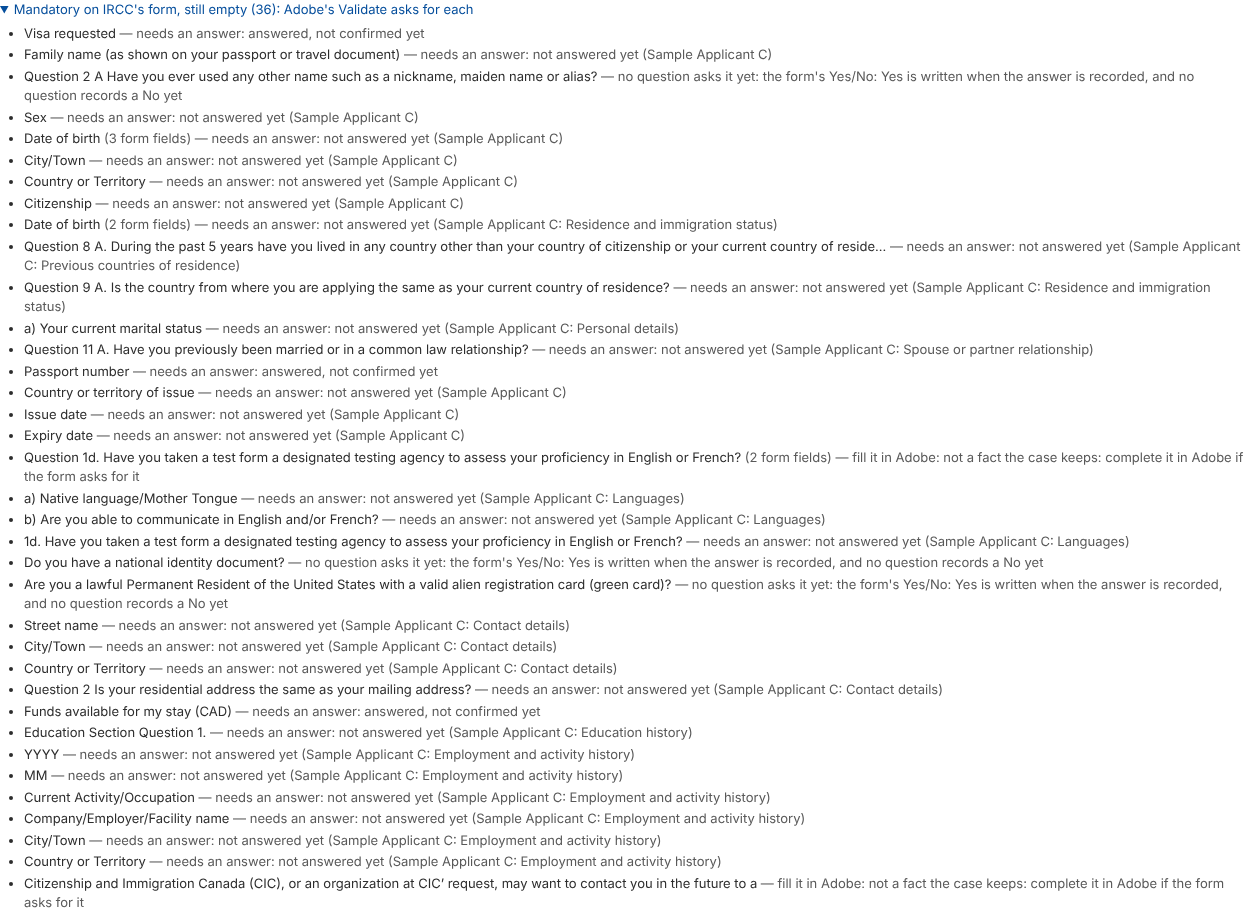
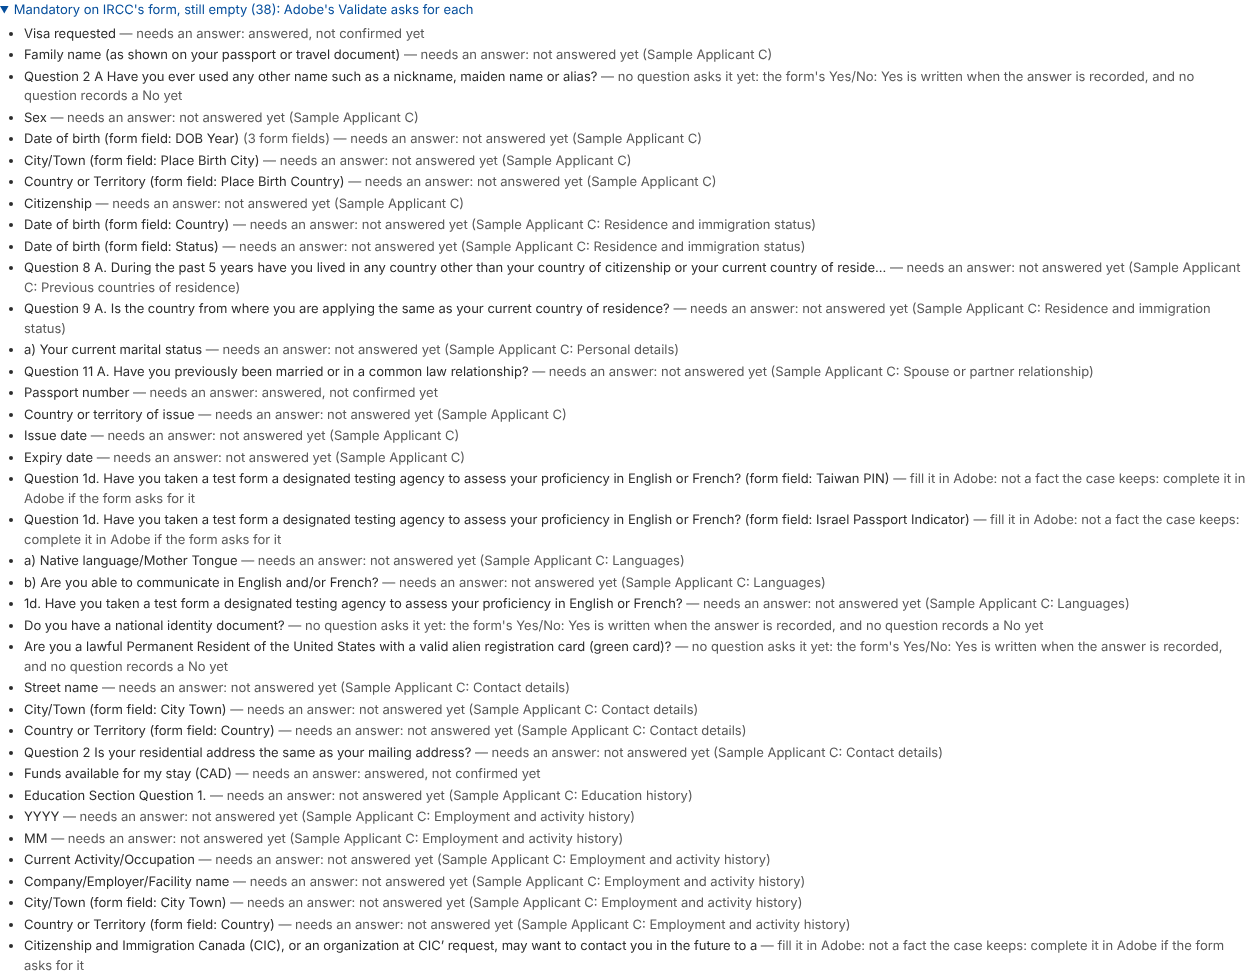
runtime: QA-165 part 2 — Devin on #592: inventory path guard, unaskable fields, Online copies, one line per field
Security: a release's inventory_file is read only as a .json inside the solution folder (solutionFile, used by
fieldsOpen and writeForm). A mapped field no answer can fill (no placement, not in the library, person not on the
case) is "no question asks it yet". An Online form's PDF copy lists its open fields too. The forms card merges only
the parts of one question (date parts under one parent); lines sharing words are named by their field.
check_qa165_mandatory 21/21 (mutants: unaskable rule off 18/21; no containment 20/21); r1c 130/130; r1d 96/96;
r1a 98/98; c72 41/41.

Claude-Session: https://claude.ai/code/session_01MXNda6sUoSwsFJcAnZxrcd

Changed region(s): [[0.0, 0.0, 1.0, 1.0], [0.7319, 0.2453, 1.0, 0.276]]

diff --git a/ai-workers/problem-1-pathway-setup-and-form-filling/prototype/studio/tests/check_qa165_mandatory.ts b/ai-workers/problem-1-pathway-setup-and-form-filling/prototype/studio/tests/check_qa165_mandatory.ts
@@ -8,6 +8,7 @@ import { readFileSync } from "node:fs";
 import { join } from "node:path";
 import fc from "fast-check";
 import { mandatoryOpen } from "../engine/runtime/mandatory.ts";
+import { solutionFile } from "../api/src/fill.ts";
 import type { BoxResult, Inventory } from "../engine/form-values.ts";
 import { recorder } from "./runtime/api.ts";
 
@@ -30,6 +31,10 @@ const o3 = mandatoryOpen(inv, [], [], { ...all, [c]: "" });
 ok("pass: a field nothing maps → \"no question asks it yet\"", o3.length === 1 && o3[0].reason === "no question asks it yet", o3);
 const o4 = mandatoryOpen(inv, [{ data_path: d, fact: "person.x", outcome: "mapped" }], [box(d, { coverage: "unresolved", detail: "collected from a document, but no supported document type supplies it" })], { ...all, [d]: "" });
 ok("fail (r1c screenshot): a mapped fact read from a document is still answerable → \"needs an answer\", never \"no question asks it yet\"", o4.length === 1 && o4[0].reason === "needs an answer" && o4[0].why === "not answered yet (Client A)", o4);
+for (const detail of ["no question placement: nobody is asked for this value yet", "the form field reads a field that is not in the library", "that person is not part of this combination; the form field stays blank"]) {
+  const o = mandatoryOpen(inv, [{ data_path: d, fact: "person.x", outcome: "mapped" }], [box(d, { coverage: "unresolved", detail })], { ...all, [d]: "" });
+  ok(`fail (Devin on #592): a mapped field no answer can fill ("${detail.split(":")[0].split(";")[0]}") → "no question asks it yet", in render's words`, o[0]?.reason === "no question asks it yet" && o[0]?.why === detail, o);
+}
 const o5 = mandatoryOpen(inv, [{ data_path: a, fact: "person.x", outcome: "mapped" }], [box(a, { result: "by hand", why: "\"Z\" has no code" })], one);
 ok("pass: a value with no code in the form → \"filled by hand\", with why", o5.length === 1 && o5[0].reason === "filled by hand" && /no code/.test(o5[0].why), o5);
 const o6 = mandatoryOpen(inv, [{ data_path: a, fact: "person.x", outcome: "mapped" }], [box(a, { coverage: "answered on screen" })], one);
@@ -45,6 +50,10 @@ ok("fail: a question number alone (\"Question 1d.\") is not taken as the sentenc
 const o10 = mandatoryOpen(inv, [{ data_path: a, evidence_quote: "* Date of birth" }], [], one);
 ok("pass: the form's own \"*\" mark is left off the words", o10[0]?.label === "Date of birth", o10[0]?.label);
 ok("fail: a field path never shows as the words", mandatoryOpen(inv, [], [], {}).every((x) => !/form1\[|\[0\]\./.test(x.label)));
+
+// Devin on #592 (security): a release's inventory_file is data; only a .json file inside the solution folder is read.
+ok("fail: an inventory_file that climbs out of the solution folder, or is not .json, is never read", solutionFile("../../../../etc/passwd.json") === null && solutionFile("/etc/hosts.json") === null && solutionFile("prototype/p1/inventory/imm5257e.inventory.pdf") === null && solutionFile(null) === null);
+ok("pass: the release's own field list resolves inside the solution folder", !!solutionFile("prototype/p1/inventory/imm5257e.inventory.json")?.endsWith("/prototype/p1/inventory/imm5257e.inventory.json"));
 
 // Signatures and the oath are person steps (F2/F6), never listed here; buttons neither.
 const sigInv: Inventory = { fields: [{ data_path: "form1[0].P[0].Signature[0].Sign[0]", caption: "Signature of applicant", required: true, ui: "signature" }, { data_path: "form1[0].P[0].Add[0]", caption: "Add", required: true, ui: "button" }, { data_path: "form1[0].P[0].Name[0]", caption: "Family name", required: true, ui: "textEdit" }] };

diff --git a/ai-workers/problem-1-pathway-setup-and-form-filling/prototype/studio/api/src/fill-case.ts b/ai-workers/problem-1-pathway-setup-and-form-filling/prototype/studio/api/src/fill-case.ts
@@ -21,10 +21,10 @@ import { changedFacts, changedGroups, copyOnlyForms, formCoverage, groupFacts, i
 import { answerSheetOnly, CHANNEL_WORDS, isBarcodeForm, NOT_FOR_FILING, type Channel } from "../../contracts/forms.ts";
 import { lineOf } from "../../engine/channels.ts";
 import type { BoxRow } from "../../engine/render.ts";
-import { actorOf, Audit, CaseRead, Db, fail, PROTOTYPE, PY, ROOT, SOLUTION, VAR, VAR_ROOT, type Actor } from "./core.ts";
+import { actorOf, Audit, CaseRead, Db, fail, PROTOTYPE, PY, ROOT, VAR, VAR_ROOT, type Actor } from "./core.ts";
 import { formValues, type Inventory } from "../../engine/form-values.ts";
 import { mandatoryOpen, type OpenField } from "../../engine/runtime/mandatory.ts";
-import { writeForm } from "./fill.ts";
+import { solutionFile, writeForm } from "./fill.ts";
 import { trialFor, type EditionMap } from "./fill-trials.ts";
 import { Runtime, type Reached } from "./runtime.ts";
 
@@ -80,8 +80,10 @@ const NOT_FORM_CHECKED = "Read back before the form's own Validate result was ch
 /** QA-165 part 2: a form's field list, read once per file (the release's field map names it). */
 const inventories = new Map<string, Inventory>();
 const inventoryOf = (file: string): Inventory | null => {
-  if (!inventories.has(file)) { try { inventories.set(file, JSON.parse(readFileSync(join(SOLUTION, file), "utf8")) as Inventory); } catch { return null; } }
-  return inventories.get(file)!;
+  const abs = solutionFile(file); // never outside the solution folder (Devin on #592)
+  if (!abs) return null;
+  if (!inventories.has(abs)) { try { inventories.set(abs, JSON.parse(readFileSync(abs, "utf8")) as Inventory); } catch { return null; } }
+  return inventories.get(abs)!;
 };
 /** QA-165 part 2 (P-237, P-238): the mandatory form fields a copy made now would leave empty, with why (engine/runtime/
  *  mandatory.ts), from the same value step a copy runs. Empty when the form has no PDF map or field list. */
@@ -140,7 +142,7 @@ export class CaseForms implements OnModuleInit {
         const channel = channelIn(s, form);
         forms.push({ form, title: titles.get(form) ?? form, subject_id: p.subjectId, person: p.label, applies, trial_passed: trialOf(s, form).passed, trial_why: trialOf(s, form).why, channel, for_filing: channel !== "ONLINE", needs_validate: needsValidate(s, form),
           draft: { written_now: cov?.facts.length ?? 0, mapped: cov?.mapped ?? 0, unconfirmed: cov?.boxes.filter((b) => b.coverage === "answered on screen").length ?? 0 },
-          readiness: readiness(view, form, p.subjectId), fields_open: cov && channel !== "ONLINE" ? fieldsOpen(s, form, markNothingRecorded(cov.boxes, view)) : [], copies: mine.map((x) => this.copyOf(x, cov?.facts ?? [], labels, groupFacts(view, form, p.subjectId), channel === "ONLINE")) });
+          readiness: readiness(view, form, p.subjectId), fields_open: cov ? fieldsOpen(s, form, markNothingRecorded(cov.boxes, view)) : [], copies: mine.map((x) => this.copyOf(x, cov?.facts ?? [], labels, groupFacts(view, form, p.subjectId), channel === "ONLINE")) });
       }
     }
     // QA-40: a form filed Online is listed too (no PDF copy is made), with the people it applies to (P-113: the case

diff --git a/ai-workers/problem-1-pathway-setup-and-form-filling/prototype/studio/api/src/fill.ts b/ai-workers/problem-1-pathway-setup-and-form-filling/prototype/studio/api/src/fill.ts
@@ -6,7 +6,7 @@ import { HttpException, HttpStatus, Inject, Injectable } from "@nestjs/common";
 import { execFile } from "node:child_process";
 import { createHash } from "node:crypto";
 import { mkdirSync, readFileSync, writeFileSync } from "node:fs";
-import { join } from "node:path";
+import { join, resolve, sep } from "node:path";
 import { promisify } from "node:util";
 import { formValues } from "../../engine/form-values.ts";
 import { personSteps } from "../../engine/form-steps.ts";
@@ -22,6 +22,14 @@ const sha = (b: Buffer | string) => createHash("sha256").update(b).digest("hex")
  *  the form field's own format or code, signatures and the oath never written, the official copy written append-only by
  *  p5/fill.py and read back. Shared by the configuration preview (sample facts) and a case (its confirmed answers,
  *  runtime lane S-11). Writes <dir>/<base>.pdf, .request.json and .report.json. */
+/** A form's field list named by a release (`inventory_file`), read only from inside the solution folder and only as a
+ *  .json file (Devin on #592: a release is data, so a "../" path must never reach another file). Null when it is not. */
+export function solutionFile(rel: string | null | undefined): string | null {
+  if (!rel || !/\.json$/i.test(rel)) return null;
+  const abs = resolve(SOLUTION, rel), root = resolve(SOLUTION);
+  return abs.startsWith(`${root}${sep}`) ? abs : null;
+}
+
 export async function writeForm(snapshot: Snapshot, cov: { boxes: BoxRow[] }, form: string, dir: string, base: string, opts: { notForFiling?: boolean } = {}) {
   // F1: the PDF edition. A line filed Online is never filled as a PDF, even when the library also has its PDF (review 18);
   // online filling needs the browser extension (later wave, W1-02, P-102).
@@ -31,7 +39,9 @@ export async function writeForm(snapshot: Snapshot, cov: { boxes: BoxRow[] }, fo
   if (line?.channel === "ONLINE" && !opts.notForFiling) fail(`${form} is filed Online here: it needs the browser extension (later wave), so the product does not fill it. File it as a PDF upload to fill its PDF.`, HttpStatus.CONFLICT);
   const map = snapshot.field_maps.find((m: { form_number: string; channel?: string }) => m.form_number === form && m.channel !== "ONLINE");
   if (!map?.official_file || !map.inventory_file) fail("This form's official file or form field list is not recorded; it cannot be filled.");
-  const inv = JSON.parse(readFileSync(join(SOLUTION, map.inventory_file), "utf8"));
+  const invFile = solutionFile(map.inventory_file);
+  if (!invFile) fail("This form's form field list is not in the product's own files; it cannot be filled.");
+  const inv = JSON.parse(readFileSync(invFile!, "utf8"));
   const box = new Map<string, any>(inv.fields.filter((x: any) => x.data_path).map((x: any) => [x.data_path, x]));
   // G4 (C5.7): the value step is engine code (engine/form-values.ts), shared with the answer-key runner.
   const { boxes, values } = formValues(snapshot, map, inv, cov.boxes);

diff --git a/ai-workers/problem-1-pathway-setup-and-form-filling/prototype/studio/web/src/runtime/forms.tsx b/ai-workers/problem-1-pathway-setup-and-form-filling/prototype/studio/web/src/runtime/forms.tsx
@@ -15,11 +15,22 @@ const when = (at: string) => new Date(at).toLocaleString("en-GB", { day: "numeri
 const busy = (c: FormCopy) => c.status === "QUEUED" || c.status === "RUNNING";
 
 /** The forms of one case. Under the questionnaire view's query key, so any answer change refreshes it too. */
-/** QA-165 part 2: one line per field the person sees (a date's year, month and day boxes are one "Date of birth"). */
+/** QA-165 part 2: one line per field the person sees. Only the parts of one question are merged: boxes under the same
+ *  parent whose names differ by a date part (a date's year, month and day are one "Date of birth"); Devin on #592:
+ *  never two fields that merely share words (IMM 5257's Taiwan PIN and Israel passport boxes carry the same wrong
+ *  caption). Lines that still share words are told apart by the field's own name, in words ("Taiwan PIN"). */
+const DATE_PART = /(Year|Month|Day|YYYY|MM|DD)(\[\d+\])?$/;
+const fieldName = (box: string) => (box.split(".").pop() ?? "").replace(/\[\d+\]$/, "").replace(/([a-z])([A-Z])/g, "$1 $2").replace(/([A-Z]+)([A-Z][a-z])/g, "$1 $2");
 const openLines = (open: { box: string; label: string; reason: string; why: string }[]) => {
-  const by = new Map<string, { key: string; label: string; reason: string; why: string; n: number }>();
-  for (const o of open) { const k = `${o.label}|${o.reason}|${o.why}`; const x = by.get(k); if (x) x.n++; else by.set(k, { key: k, label: o.label, reason: o.reason, why: o.why, n: 1 }); }
-  return [...by.values()];
+  const by = new Map<string, { key: string; box: string; label: string; reason: string; why: string; n: number }>();
+  for (const o of open) {
+    const parts = o.box.split("."), leaf = (parts.pop() ?? "").replace(/\[\d+\]$/, "").replace(DATE_PART, "");
+    const k = `${parts.join(".")}|${leaf}|${o.label}|${o.reason}|${o.why}`;
+    const x = by.get(k); if (x) x.n++; else by.set(k, { key: k, box: o.box, label: o.label, reason: o.reason, why: o.why, n: 1 });
+  }
+  const lines = [...by.values()], seen = new Map<string, number>();
+  for (const l of lines) seen.set(l.label, (seen.get(l.label) ?? 0) + 1);
+  return lines.map((l) => (seen.get(l.label)! > 1 ? { ...l, label: `${l.label} (form field: ${fieldName(l.box)})` } : l));
 };
 
 export function FormsPanel({ caseId }: { caseId: string }) {

diff --git a/ai-workers/problem-1-pathway-setup-and-form-filling/prototype/studio/engine/runtime/mandatory.ts b/ai-workers/problem-1-pathway-setup-and-form-filling/prototype/studio/engine/runtime/mandatory.ts
@@ -31,6 +31,9 @@ const wordsOf = (e: MapEntry | undefined, caption: string | null | undefined, pa
   return one.length < t.length && !/[.?!]$/.test(one) ? `${one.trimEnd()}…` : one;
 };
 
+/** render's "unresolved" details that no answer on this case can fill (engine/render.ts coverage). */
+const UNASKABLE = /no question placement|not in the library|not part of this combination/;
+
 export function mandatoryOpen(inv: Inventory, entries: MapEntry[], boxes: BoxResult[], values: Record<string, string>): OpenField[] {
   const entryOf = new Map(entries.map((e) => [e.data_path, e]));
   const boxOf = new Map(boxes.map((b) => [b.box, b]));
@@ -47,6 +50,9 @@ export function mandatoryOpen(inv: Inventory, entries: MapEntry[], boxes: BoxRes
     else if (b && /^derived:.*\brecorded\b/.test(b.transform ?? "") && !b.nothing_recorded) out.push({ box: path, label, reason: "no question asks it yet", why: "the form's Yes/No: Yes is written when the answer is recorded, and no question records a No yet" });
     // A mapped fact can be answered, whichever source the release names for it (a document reading the case has not
     // got is typed by the officer: r1c's walk), so it "needs an answer"; only an unmapped field has no question.
+    // Devin on #592: a mapped fact that no question asks (no placement), that is not in the library, or about a person
+    // not on the case cannot be answered: "no question asks it yet", with render's own words.
+    else if (b && b.coverage === "unresolved" && UNASKABLE.test(b.detail ?? "")) out.push({ box: path, label, reason: "no question asks it yet", why: b.detail });
     else if (b && e?.fact) out.push({ box: path, label, reason: "needs an answer", why: b.coverage === "answered on screen" ? "answered, not confirmed yet" : b.coverage === "unresolved" ? `not answered yet (${b.about_label})` : `not answered yet (${b.about_label}: ${b.detail})` });
     else out.push({ box: path, label, reason: "no question asks it yet", why: "nothing in this release fills it" });
   }

diff --git a/ai-workers/problem-1-pathway-setup-and-form-filling/prototype/studio/tests/runtime/check_runtime_r1d.ts b/ai-workers/problem-1-pathway-setup-and-form-filling/prototype/studio/tests/runtime/check_runtime_r1d.ts
@@ -450,6 +450,8 @@ async function main() {
   const lockOnline = onlineCopy ? await call("POST", `/runtime/form-copies/${onlineCopy}/lock`, { kind: "filed" }, OFFICER) : { status: 0, body: null };
   ok("C11.6 P-145 pass: a case whose release files IMM 5257 Online offers a PDF copy marked not for filing",
     (ol as (Form & { for_filing?: boolean })[]).some((x) => x.form === "IMM 5257" && x.for_filing === false) && r.status === 202, { forms: ol.map((x) => x.form), status: r.status, detail: r.body?.detail });
+  const onlineForm = (ol as (Form & { for_filing?: boolean; fields_open?: unknown[] })[]).find((x) => x.form === "IMM 5257" && x.for_filing === false);
+  ok("QA-165 part 2 (Devin on #592): the Online form's PDF copy (not for filing, but downloadable) also lists the mandatory fields it leaves empty", (onlineForm?.fields_open?.length ?? 0) > 0, onlineForm?.fields_open?.length);
   ok("C11.6 P-145 fail: that copy is never filed or uploaded (409 in words)", lockOnline.status === 409 && /copy, not for filing/.test(lockOnline.body?.detail ?? ""), [lockOnline.body?.detail, sql(`select status || ' ' || coalesce(error, '') from form_instance where id='${onlineCopy}'`)]);
   ok("PR #12 review 1 pass-guard: the case's other PDF forms are still offered, and the real release is the latest again", ol.length > 0 && sql(`select id from config_release where combination_id='${vv}' order by version desc limit 1`) === rel.id, ol.map((x) => x.form));
   // P-65 (a), review M1: the fill trial verdict gates filing, per form.
